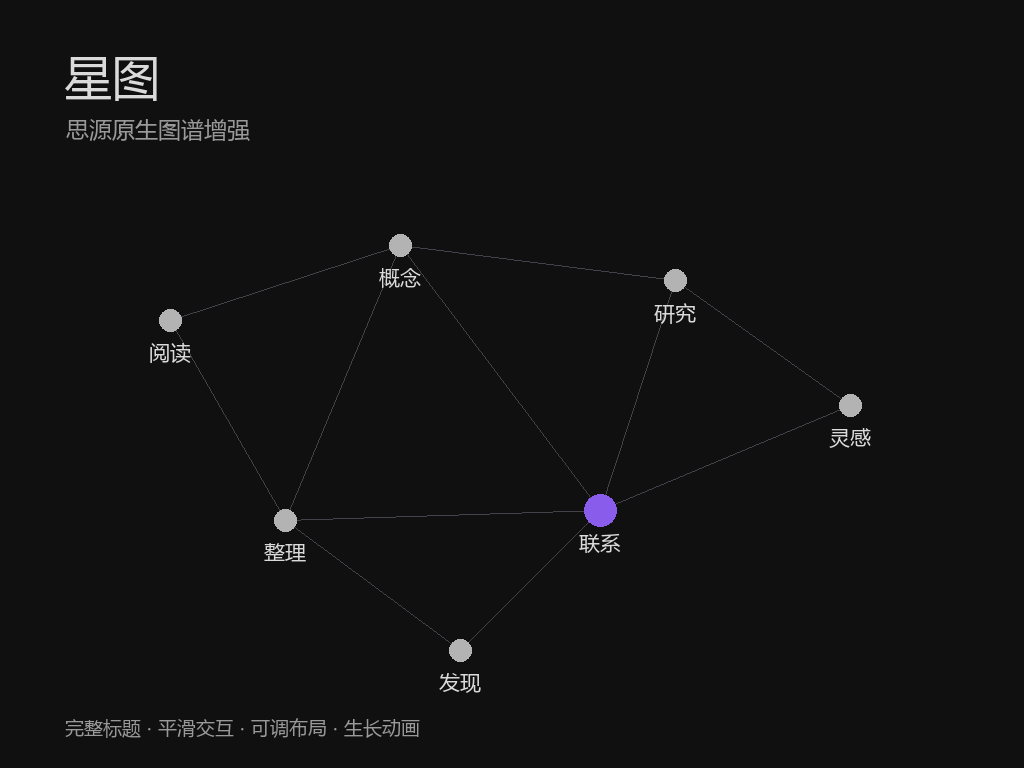
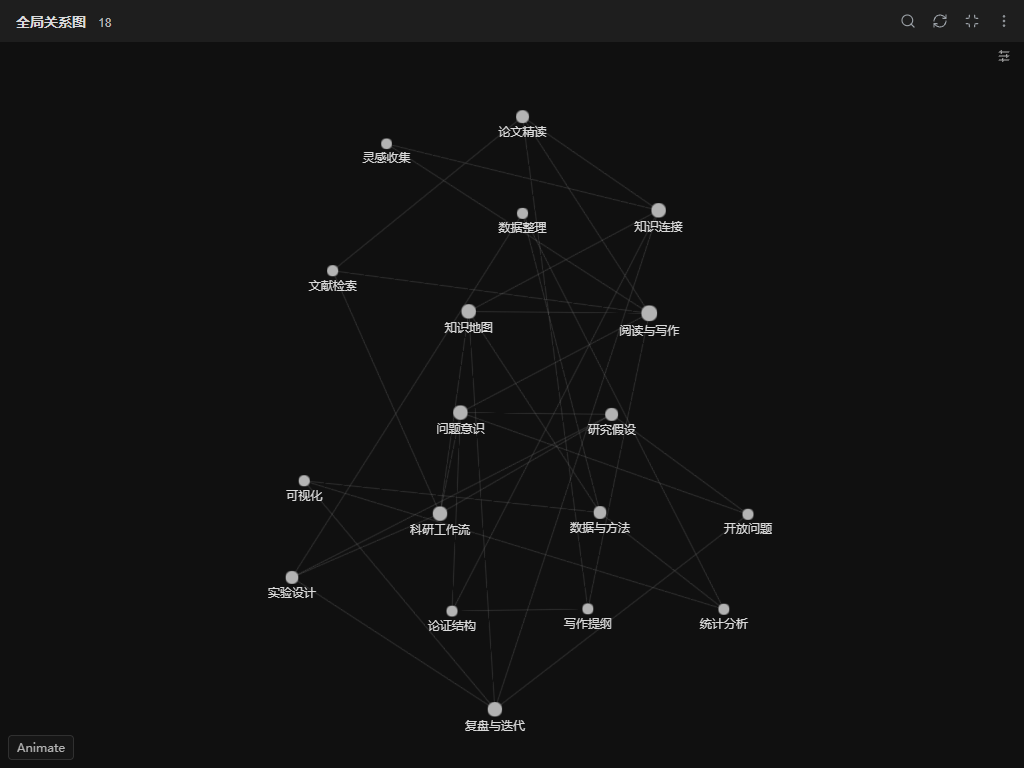
Prepare Xingtu 0.1.1 with actual graph screenshots

diff --git a/README.md b/README.md
@@ -2,11 +2,33 @@
 
 让思源原生关系图更清晰、自然。深色背景、灰色节点与紫色焦点，完整标题、平滑缩放、悬停渐变，以及可调节的物理布局。无需 AI API，离线运行。
 
+![星图实际全局关系图](docs/images/graph.png)
+
+截图来自思源 3.8.7 的独立演示工作区，使用合成笔记及真实引用关系，不包含私人笔记。
+
 ## 使用
 
 启用插件后，继续使用思源原有的全局关系图和局部关系图入口。图谱右上角的调节按钮提供弹簧动画、排斥力、连接距离、阻尼、冷却、标签显示、孤立节点等设置，参数自动保存。滚轮以鼠标位置为中心缩放，拖动节点可牵引相邻节点。
 
 点击图谱左下角 **Animate** 播放生长动画，支持暂停、重播、速度、日期和时间轴。动画根据文档创建时间与**当前引用关系**重建，并非真实的历史快照。
+
+### 图谱参数
+
+展开图谱右上角的调节按钮，可以直接调整动画强度、排斥力、连接距离、阻尼和冷却速度，也可开关标签与孤立节点。「恢复推荐参数」可恢复布局默认值。
+
+![实际图谱与显示、物理参数面板](docs/images/graph-settings.png)
+
+### 插件设置
+
+从思源插件管理打开星图设置，可查看使用说明、接入状态，并打开或收起全局图谱。详细参数位于图谱自己的右上角面板。
+
+![星图插件设置与状态界面](docs/images/plugin-settings.png)
+
+## 安装
+
+集市收录后，可在「设置 → 集市 → 插件」搜索“星图”安装。是否已上架请以思源集市搜索结果为准。
+
+手动安装可从本仓库 Releases 下载 `package.zip`，将包内文件直接解压到工作区 `data/plugins/siyuan-xingtu/`，然后启用插件。最低思源版本为 3.8.7。免费使用，不含广告或付费功能。
 
 ## 从个人代码片段迁移
 

diff --git a/docs/TESTING.md b/docs/TESTING.md
@@ -1,5 +1,7 @@
 # 测试范围
 
+0.1.1 首次公开发布只修正插件设置页的默认左右分栏，补充真实图谱、参数面板及插件设置截图。图谱、物理布局和生长动画代码与下述 0.1.0 验证基线一致。0.1.1 另行通过 12 项自动测试、构建与包结构检查，并在独立思源窗口中检查设置页与图谱显示；未重复执行十分钟压力测试。
+
 星图 0.1.0 于 2026-11-07 至 2026-11-08 在 Windows、思源 3.8.7 独立工作区及桌面浏览器中验证。工作区仅含合成笔记，未使用正式笔记做压力测试。
 
 - 12 项自动测试通过：参数归一化、旧参数迁移与优先级、不兼容接口、旧片段冲突保护、异步加载中停用、滑块保存合并，以及 50/500/2000 节点物理线程和时间轴后台暂停。
